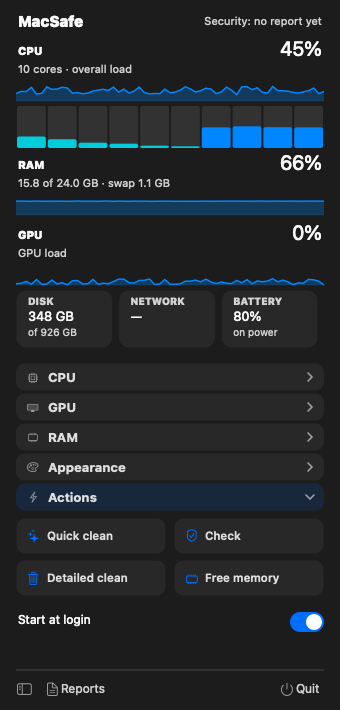
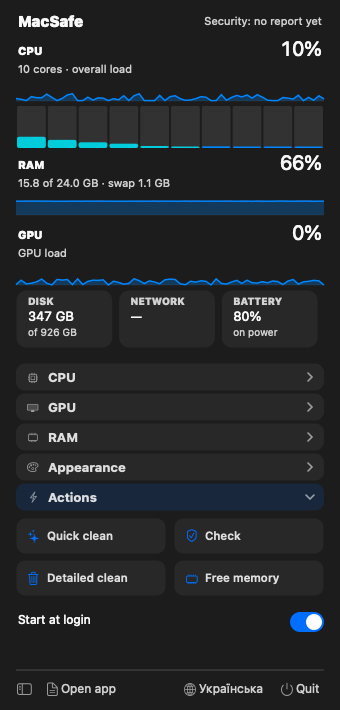
docs: add MIT license and update documentation
Adds the license, documents the English default, the language switch in Appearance and in the report window's Settings, and the Settings section.

diff --git a/README.md b/README.md
@@ -5,7 +5,7 @@ A macOS menu bar monitor, a security report, and a safe cache cleaner in one sma
 - **Menu bar:** CPU, memory, GPU, disk, network and battery at a glance, with a popover for details, the process list and quick actions.
 - **Report window:** a security and health report with an issue list, an action plan, history, and a cleaning panel.
 - **Safe by design:** no root, no system changes. It deletes only caches and old logs, and anything it removes goes to the Trash first.
-- **English and Ukrainian:** switch the language in the menu bar settings. By default it follows macOS.
+- **English by default, and Ukrainian:** switch the language in the menu bar popover (Appearance) or in the report window (Settings).
 
 ![Report window: overview](docs/screenshots/window-overview.png)
 
@@ -62,7 +62,12 @@ The app is signed ad hoc. That is enough on the Mac that built it. On other Macs
 
 ## Language
 
-Open the menu bar icon, then **Appearance**, then **Language**: **Українська** or **English**. The app restarts to apply the change. The report window follows the same setting. By default MacSafe uses English unless macOS lists Ukrainian as the first language. Details are in [docs/languages.md](docs/languages.md).
+English is the default. To switch to **Українська**:
+
+- in the menu bar popover, open **Appearance**, then **Language**. The menu bar restarts itself to apply the change;
+- or in the report window, open **Settings** (last in the sidebar) and pick the language. The menu bar follows.
+
+Details are in [docs/languages.md](docs/languages.md).
 
 ## Your data
 
@@ -83,14 +88,14 @@ MacSafe keeps its data in `~/Library/Application Support/MacSafe`: HTML and JSON
 python3 -m unittest discover -s tests
 ```
 
-The tests cover cleaning rules, alerts, persistence, large files, leftovers, the Trash targets, the preferences, and translation coverage. Code comments are in Ukrainian.
+The tests cover cleaning rules, alerts, persistence, large files, leftovers, the Trash targets, the preferences, and translation coverage. Code comments and docstrings are in English.
 
 ## Limitations
 
 - CPU and GPU temperatures are not readable without root on Apple silicon. The Temperatures section shows what macOS exposes and marks the rest as unavailable.
 - Notarization is not done yet. It needs an Apple Developer ID.
-- The report is generated by a shell script and HTML template. Some diagnostic messages from the script stay in Ukrainian.
+- The report is generated by a shell script and an HTML template. Its check names and report texts are translated through the dictionary in the template, so a new text needs a new entry there.
 
 ## License
 
-Not chosen yet.
+MIT. See [LICENSE](LICENSE). You may use, copy and change the code, but keep the copyright notice in every copy.

diff --git a/docs/languages.md b/docs/languages.md
@@ -1,11 +1,14 @@
 # Languages
 
-MacSafe is available in **English** and **Ukrainian**. The language is a setting. Change it in the menu bar popover under **Appearance → Language**.
+MacSafe is available in **English** and **Ukrainian**. English is the default. The language is a setting with two places to change it: the menu bar popover under **Appearance → Language**, and the report window's **Settings**.
 
 ## Choosing a language
 
-- **auto** (the default): English, unless macOS lists Ukrainian as the first preferred language, in which case Ukrainian.
-- **English** or **Українська**: set explicitly. The app restarts so the menu bar and the agent use the new language. The report window uses it the next time it opens.
+- **English** (the default), or **Українська**.
+- In the menu bar popover: **Appearance → Language**. The agent saves the choice and restarts, so the menu bar shows the new language at once.
+- In the report window: **Settings → Interface language**. The window stores the choice through the agent, which then restarts the menu bar too.
+
+The settings file keeps the choice as `"language": "en"` or `"language": "uk"`. A missing or invalid value means English.
 
 ## How translation works
 
@@ -26,6 +29,6 @@ Tests check that every `T()` call in the code has a translation and that placeho
 
 ## What is not translated
 
-- Code comments, docstrings, and developer scripts (`build_app.sh`, `packaging/`) are in Ukrainian.
-- The log messages of the report generator (`core/generate-report.sh`) are in Ukrainian. Messages that reach the interface are translated.
-- Values that come from your Mac (app names, file names, paths) appear as they are.
+- Values that come from your Mac (app names, file names, paths, command output) appear as they are.
+- Source code keeps the Ukrainian phrases as translation keys. Python and the page compare them with the dictionary, so changing a key means changing its entry too.
+- Code comments, docstrings, build scripts and the report generator's log messages are in English.

diff --git a/docs/modes.md b/docs/modes.md
@@ -12,7 +12,7 @@ Click the MacSafe icon in the menu bar.
 | CPU, RAM, GPU | The current value, a 60-second graph and details. CPU shows per-core load, uptime and the load average. RAM shows memory use, swap and the breakdown. GPU shows the load (if macOS reports it). |
 | Disk, Network, Battery | Free space, network speed, battery charge and power source. |
 | Process lists | The top processes by CPU, GPU and memory, grouped by app. Click a name to pin the row; click × and then **Sure?** to quit a process. Only your own processes can be quit, never MacSafe. |
-| Appearance | Which values show in the menu bar, the menu bar style, the refresh interval, notifications and the daily check, **Language**. |
+| Appearance | Which values show in the menu bar, the menu bar style, the refresh interval, notifications and the daily check, **Language** (English or Ukrainian). |
 | Actions | **Quick clean** (two clicks: the first measures, the second cleans), **Check** (runs the security report), **Detailed clean** (opens the window's cleaning section), **Free memory** (asks for the administrator password), and **Start at login**. |
 | Footer | **Reports** opens the window, the sidebar button shows a short summary, **Quit** closes MacSafe. |
 
@@ -55,6 +55,10 @@ The sidebar groups sections into six areas. Each section shows its issues count 
 - **History**: the score trend across runs, with links to earlier HTML reports.
 - **Other Macs**: a place for snapshots from other Macs. Drop a JSON snapshot onto the area, or put it in the `systems` folder and regenerate the report.
 - **Notes**: free text: what is done, what is checked, what is waiting. Saved in the browser.
+
+### App
+
+- **Settings**: the interface language (English or Ukrainian). The same switch is in the menu bar popover under Appearance. The menu bar restarts itself to apply the choice.
 
 ## Keyboard
 
